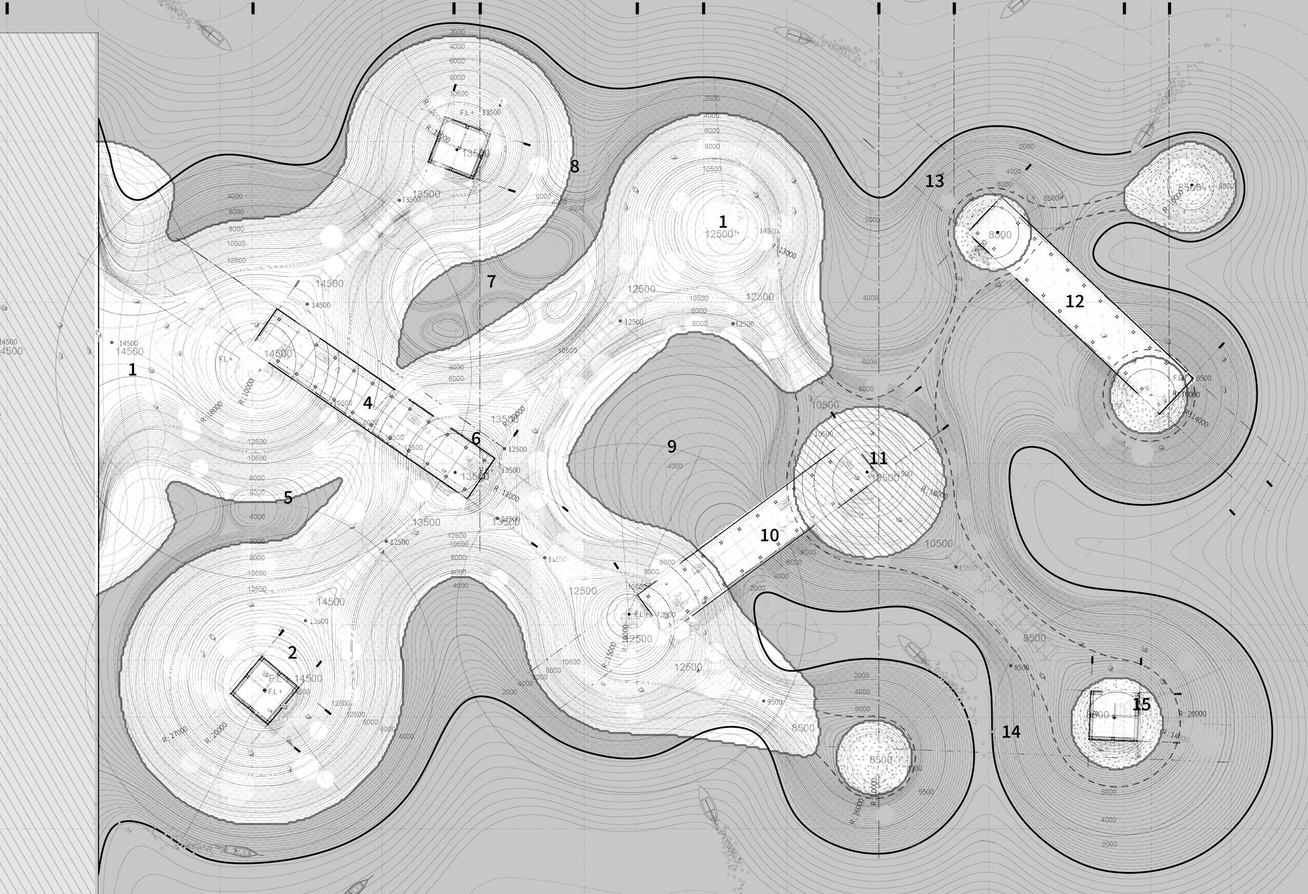
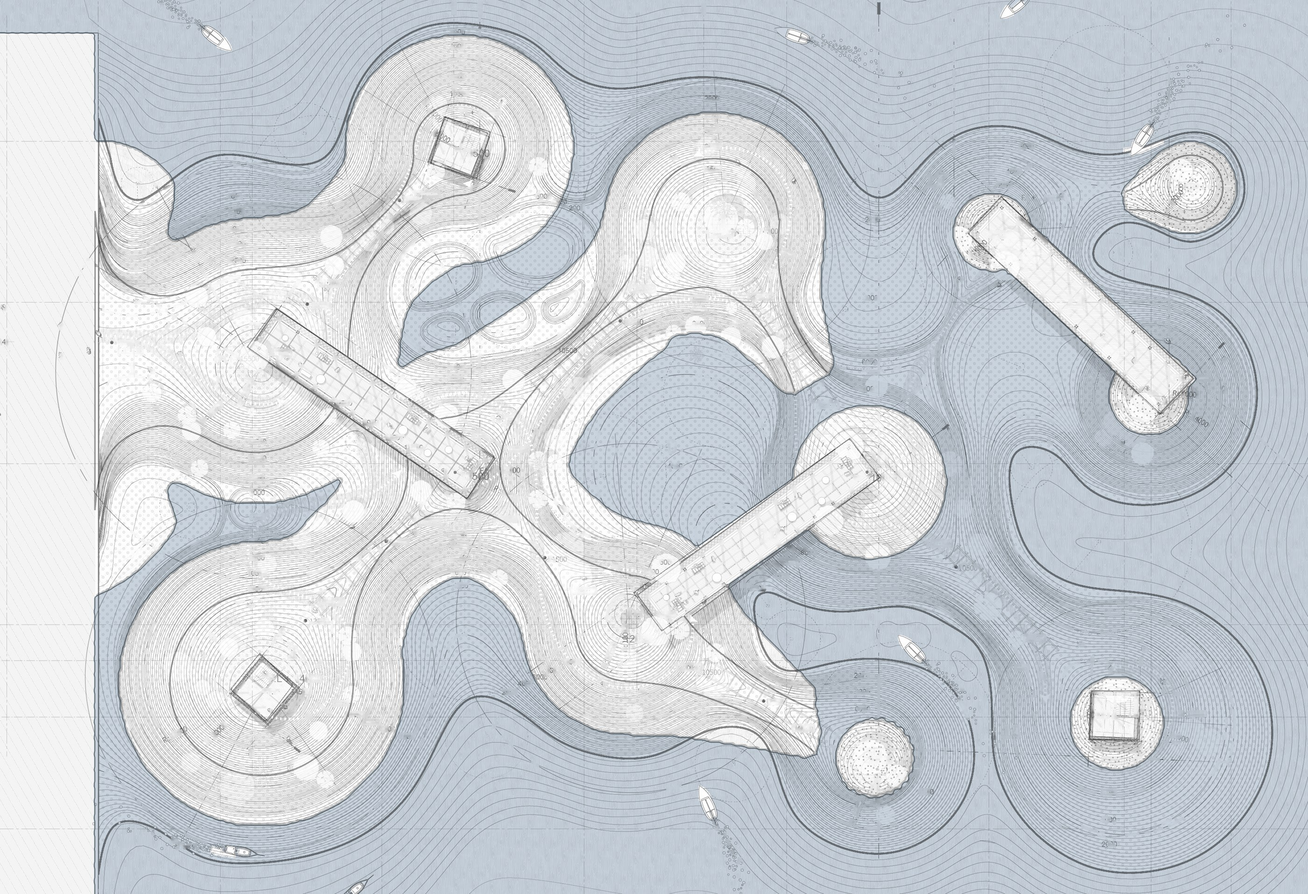
핀 #82 #83 #85 (RE:TIDE 수위 시뮬레이션): 숫자·치수선 지우고 굵은 선 연하게, 물은 단면과 같은 푸른 회색, 물가 경계선만 진하게·매끈하게, 배는 물 위에, 물이 차오르는 순서 지도(water-flood.png)로 물가가 실제로 번져 나가게

diff --git a/assets/js/data.js b/assets/js/data.js
@@ -228,13 +228,13 @@ const SITE = {
       { heading: "Twelve Mounds, One Tissue", big: true, text: "Mounds on the eddies, paths on tangent arcs, a reef hollowed below and platforms on the crowns. Programs sit on the mounds and open and close with the tide.", images: [{src: "assets/img/re-tide/twelve-mounds.jpg", caption: "Twelve mounds, one tissue — the long pavilions and lookout towers lifted off their mounds", r: 1.678, tags: [[13,10.3,"Library","c","lv"],[52.9,4.3,"Lookout tower T1","","lv"],[70.8,2.6,"Water sports pavilion","r","lv"],[42.7,36,"Stage pavilion","r","lv"],[11.3,48,"Lookout tower T2","r","lv"],[86.7,51.5,"Lookout tower T3","","lv"]]}] },
       { heading: "Flow Layers", text: "Five layers, 21 programs, 58 links: strips from the low outer edge to the high inner ground, each carrying its own programs.", images: [], widget: "flow" },
       { heading: "Rising Water — Simulation", big: true, // 핀 #32: 평면·단면을 위아래로 크게
-        text: "One site at six water levels — the order in which the mounds become islands and go under. White is walkable ground joined to the pier, hatching is ground reached only over a long pavilion, dots are islands cut off by the sea, and a dashed line marks a mound already under water. Drag the bar or press play to run the water up and down.", images: [], sim: { r: 1.462, frames: [
-        { src: "assets/img/re-tide/water-a.jpg", level: 2.43, share: "higher 82.5 % of the year", d: "Mean low-water stand. The sea is at its lowest and every mound is joined on foot — 39,512 m² of walkable ground." },
-        { src: "assets/img/re-tide/water-b.jpg", level: 4.75, share: "higher 50.0 % of the year", d: "Mean sea level: the water stands higher than this for half the year. The bays fill, but every mound still holds to the pier — 34,233 m² on foot." },
-        { src: "assets/img/re-tide/water-c.jpg", level: 5.45, share: "higher 40.9 % of the year", d: "The farthest +8.5 m mound, M10, breaks away first and becomes an island — 31,049 m² on foot." },
-        { src: "assets/img/re-tide/water-d.jpg", level: 7.04, share: "higher about 18 % of the year", d: "Mean high-water stand. All five +8.5 m mounds are islands, and M07 is reached only across the stage pavilion — 22,082 m² on foot." },
-        { src: "assets/img/re-tide/water-e.jpg", level: 8.5, share: "higher 3.2 % of the year", d: "The +8.5 m mounds go under — on 128 days a year, for 1.7 hours at a time. 18,806 m² stays on foot." },
-        { src: "assets/img/re-tide/water-f.jpg", level: 9.24, share: "higher 0.24 % of the year", d: "The 99 % level. M02, M03, M05, M06 and M07 are cut off on the ground, and the library pavilion alone joins them to the pier — 6,914 m² on foot." },
+        text: "One site at six water levels — the order in which the mounds become islands and go under. White is walkable ground joined to the pier, hatching is ground reached only over a long pavilion, dots are islands cut off by the sea, and a dashed line marks a mound already under water. Drag the bar or press play to run the water up and down.", images: [], sim: { r: 1.462, flood: "assets/img/re-tide/water-flood.png", frames: [
+        { src: "assets/img/re-tide/water-a.jpg", dry: "assets/img/re-tide/water-dry-a.jpg", level: 2.43, share: "higher 82.5 % of the year", d: "Mean low-water stand. The sea is at its lowest and every mound is joined on foot — 39,512 m² of walkable ground." },
+        { src: "assets/img/re-tide/water-b.jpg", dry: "assets/img/re-tide/water-dry-b.jpg", level: 4.75, share: "higher 50.0 % of the year", d: "Mean sea level: the water stands higher than this for half the year. The bays fill, but every mound still holds to the pier — 34,233 m² on foot." },
+        { src: "assets/img/re-tide/water-c.jpg", dry: "assets/img/re-tide/water-dry-c.jpg", level: 5.45, share: "higher 40.9 % of the year", d: "The farthest +8.5 m mound, M10, breaks away first and becomes an island — 31,049 m² on foot." },
+        { src: "assets/img/re-tide/water-d.jpg", dry: "assets/img/re-tide/water-dry-d.jpg", level: 7.04, share: "higher about 18 % of the year", d: "Mean high-water stand. All five +8.5 m mounds are islands, and M07 is reached only across the stage pavilion — 22,082 m² on foot." },
+        { src: "assets/img/re-tide/water-e.jpg", dry: "assets/img/re-tide/water-dry-e.jpg", level: 8.5, share: "higher 3.2 % of the year", d: "The +8.5 m mounds go under — on 128 days a year, for 1.7 hours at a time. 18,806 m² stays on foot." },
+        { src: "assets/img/re-tide/water-f.jpg", dry: "assets/img/re-tide/water-dry-f.jpg", level: 9.24, share: "higher 0.24 % of the year", d: "The 99 % level. M02, M03, M05, M06 and M07 are cut off on the ground, and the library pavilion alone joins them to the pier — 6,914 m² on foot." },
       ], sections: [
         { src: "assets/img/re-tide/section-water.jpg", hi: "assets/img/re-tide/section-water-high.jpg", hiTop: 7.04, wr: "6.6%", r: 7.293, ticks: [[0,0.9267],[2.43,0.8015],[4.75,0.682],[7.04,0.564],[9.5,0.4373],[12,0.3085]], cap: "The long section at the same water — gate mound, library, theatre and sea-pool pavilion" },
       ] } },

diff --git a/assets/js/site.js b/assets/js/site.js
@@ -3359,7 +3359,7 @@
   // 물 차오르는 평면 시뮬레이션: 여섯 장의 평면을 수위에 따라 겹쳐 보여요
   const simHtml = (sim) => `
     <div class="sim" data-sim>
-      <div class="media sim-view" style="aspect-ratio:${sim.r}" data-lenis-prevent tabindex="0" aria-label="Scroll over the plan to raise and lower the water">${sim.frames.map((f, i) => `<img src="${esc(f.src)}" alt="Plan at +${f.level} m" style="opacity:${i ? 0 : 1}" decoding="async">`).join("")}
+      <div class="media sim-view" style="aspect-ratio:${sim.r}" data-lenis-prevent tabindex="0" aria-label="Scroll over the plan to raise and lower the water">${sim.frames.map((f, i) => `<img src="${esc(f.src)}"${f.dry ? ` data-dry="${esc(f.dry)}"` : ""} alt="Plan at +${f.level} m" style="opacity:${i ? 0 : 1}" decoding="async">`).join("")}${sim.flood ? `<canvas class="sim-fl" aria-hidden="true"></canvas>` : ""}
         <span class="sim-lv num">+${sim.frames[0].level.toFixed(2)} m</span></div>
       <div class="sim-ui">
         <button type="button" class="sim-play lnk" aria-pressed="false">Play tide</button>
@@ -3671,8 +3671,37 @@
         ckS.textContent = `${lab} · LW + ${Math.floor(e / 60)} h ${String(e % 60).padStart(2, "0")}`;
       };
       const ease = (x) => x * x * (3 - 2 * x);
+      // 핀 #83: 물이 차오르는 순서 지도(flood)가 있으면 물을 캔버스로 직접 그려, 물가가 실제로 번져 나가요. 평면은 물 없는 판(dry)끼리 겹쳐요
+      const fl = sim.flood && $(".sim-fl", el); let FT = null, FG = null, fctx = null, fimg = null, fw = 0, fh = 0, lastFv = -1;
+      const TINT = sim.tint || [198, 208, 218], EDGE = sim.edge || [70, 86, 98];
+      const flDraw = (v) => {
+        if (!FT || Math.abs(v - lastFv) < 0.002) return; lastFv = v;
+        const d = fimg.data, tv = v * 48 + 1, n = fw * fh;
+        for (let i = 0, o = 0; i < n; i++, o += 4) {
+          const t = FT[i]; let a, e;
+          if (t <= 0) { a = 1; e = 0; } else if (t >= 255) { a = 0; e = 0; } else { const g = FG[i], z = (tv - t) / g; a = z > 1 ? 1 : z < -1 ? 0 : (z + 1) / 2; e = z > 1.6 || z < -1.6 ? 0 : 1 - Math.abs(z) / 1.6; }
+          const r = 255 - (255 - TINT[0]) * a, gg = 255 - (255 - TINT[1]) * a, b = 255 - (255 - TINT[2]) * a;
+          d[o] = r + (EDGE[0] - r) * e; d[o + 1] = gg + (EDGE[1] - gg) * e; d[o + 2] = b + (EDGE[2] - b) * e; d[o + 3] = 255;
+        }
+        fctx.putImageData(fimg, 0, 0);
+      };
+      if (fl) {
+        const im = new Image(); im.src = sim.flood;
+        im.decode().then(() => {
+          fw = im.naturalWidth; fh = im.naturalHeight; fl.width = fw; fl.height = fh;
+          fctx = fl.getContext("2d"); fctx.drawImage(im, 0, 0); const raw = fctx.getImageData(0, 0, fw, fh).data, n = fw * fh;
+          FT = new Float32Array(n); for (let i = 0; i < n; i++) FT[i] = raw[i * 4];
+          // 계단 없애기: 단계 값끼리만 살짝 흐리고, 물가 폭(픽셀 1.3칸)이 어디서나 같게 기울기를 구해요
+          const T2 = new Float32Array(FT); for (let p = 0; p < 2; p++) for (let y = 1; y < fh - 1; y++) for (let x = 1; x < fw - 1; x++) { const i = y * fw + x; if (FT[i] <= 0 || FT[i] >= 255) continue; let s2 = 0, c = 0; for (const j of [i - 1, i + 1, i - fw, i + fw, i]) if (FT[j] > 0 && FT[j] < 255) { s2 += T2[j]; c++; } T2[i] = s2 / c; }
+          FG = new Float32Array(n); for (let y = 0; y < fh; y++) for (let x = 0; x < fw; x++) { const i = y * fw + x, tx = (T2[Math.min(i + 1, n - 1)] - T2[Math.max(i - 1, 0)]) / 2, ty = (T2[Math.min(i + fw, n - 1)] - T2[Math.max(i - fw, 0)]) / 2; FG[i] = Math.max(0.35, Math.min(8, Math.hypot(tx, ty))) * 1.3; }
+          FT = T2; fimg = fctx.createImageData(fw, fh);
+          imgs.forEach((x) => { if (x.dataset.dry) x.src = x.dataset.dry; });
+          el.classList.add("fl-on"); lastFv = -1; set(cv);
+        }).catch(() => {});
+      }
       const set = (v) => {
         const i = Math.min(F.length - 2, Math.floor(v)), f = v - i, g = ease(f);
+        flDraw(v);
         imgs.forEach((im, j) => { im.style.opacity = j === i ? 1 : j === i + 1 ? g : 0; });
         const L = F[i].level + (F[i + 1].level - F[i].level) * f;
         lv.textContent = "+" + L.toFixed(2) + " m";

diff --git a/assets/css/site.css b/assets/css/site.css
@@ -2231,3 +2231,8 @@ html.cg-open { overflow: hidden; }
   .cx-body .pj-pair .tw-sine .tw-box { width: 100%; }
   .cx-body .pj-pair .tw-dial .tw-box { max-width: 440px; }
 }
+
+/* 핀 #83: 물이 번져 나가는 캔버스 — 물 없는 평면 위에 곱하기로 겹쳐요 */
+.sim-fl { position: absolute; inset: 0; width: 100%; height: 100%; mix-blend-mode: multiply; pointer-events: none; opacity: 0; }
+.sim.fl-on .sim-fl { opacity: 1; }
+.sim-view .sim-lv { z-index: 1; }
